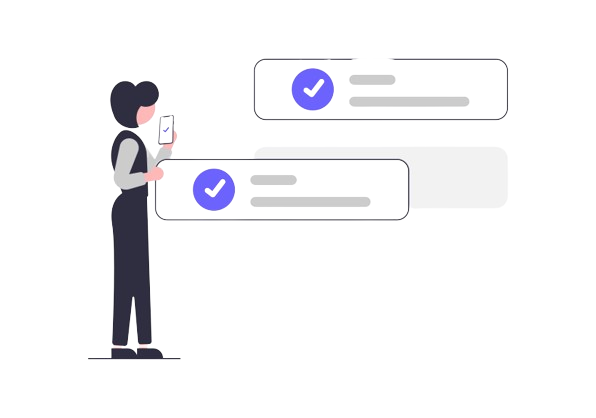
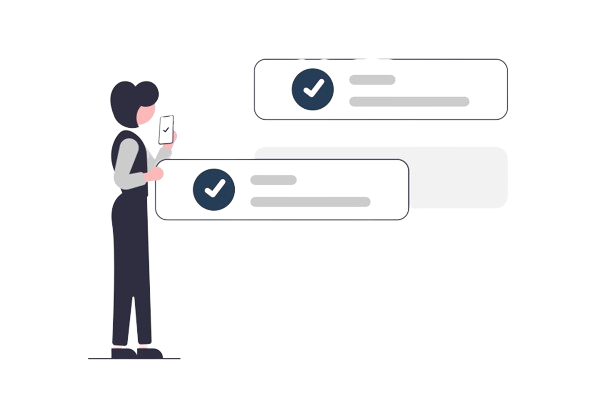
change theme color and link project to links

Changed region(s): [[0.4832, 0.1555, 0.5738, 0.2799], [0.302, 0.4043, 0.3926, 0.5287]]

diff --git a/src/Content.js b/src/Content.js
@@ -172,26 +172,32 @@ export const content = {
       {
         title: "Cocoa Research Institute of Ghana",
         image: crig,
+        link: "https://www.crig.org.gh/"
       },
       {
         title: "The Fairwork",
         image: thefairwork,
+        link: "https://www.thefairwork.com/"
       },
       {
         title: "The Fairwork Blog",
         image: blog,
+        link: "https://blog.thefairwork.com/"
       },
       {
         title: "DevTray",
         image: devtray,
+        link: "https://devtray.net/"
       },
       {
         title: "TheSpec Shop",
         image: spec,
+        link: "https://the-spec-shop.vercel.app/"
       },
       {
         title: "MoviePop",
         image: moviepop,
+        link: "https://popx-f5998.web.app/"
       },
     ],
   },

diff --git a/src/components/Projects.jsx b/src/components/Projects.jsx
@@ -43,9 +43,11 @@ const Projects = () => {
                 <img src={content.image} alt="..." />
                 <div className="flex flex-col gap-1 mt-2">
                   <h5 className="font-bold font-Poppins">{content.title}</h5>
-                  <button className="font-bold text-gray self-end">
-                    READ MORE
-                  </button>
+                  <a href={content.link} target="_blank" rel="noreferrer">
+                    <button className="font-bold text-gray self-end">
+                      Demo
+                    </button>
+                  </a>
                 </div>
               </SwiperSlide>
             ))}

diff --git a/src/components/Skills.jsx b/src/components/Skills.jsx
@@ -19,7 +19,7 @@ const Skills = () => {
             <div
               key={i}
               data-aos="fade-up"
-              data-aos-delay={i * 300}
+              data-aos-delay={i * 100}
               className="bg-white sm:cursor-pointer 
                relative group w-full flex items-center
                 gap-5 p-5 max-w-sm rounded-md border-2 border-slate-200"
